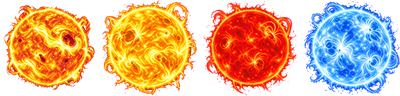
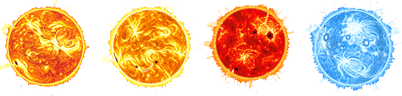
Star systems card: the four stars as the game draws them now

diff --git a/index.html b/index.html
@@ -273,7 +273,7 @@
       <ul class="full-features">
         <li><img src="img/features/endless-infinity.png" width="78" height="36" alt=""><span class="pixel">Endless Timeline</span></li>
         <li><img src="img/features/multiplayer-fleet.png" width="144" height="50" alt=""><span class="pixel">Multiplayer</span></li>
-        <li><img src="img/features/star-systems-strip.png" width="200" height="48" alt=""><span class="pixel">Multiple Star Systems</span></li>
+        <li><img src="img/features/star-systems-strip.png?v=2" width="201" height="48" alt=""><span class="pixel">Multiple Star Systems</span></li>
         <li><img src="img/features/procedural-systems-strip.png" width="172" height="52" alt=""><span class="pixel">Procedural Systems</span></li>
       </ul>
       <div class="ctas">
